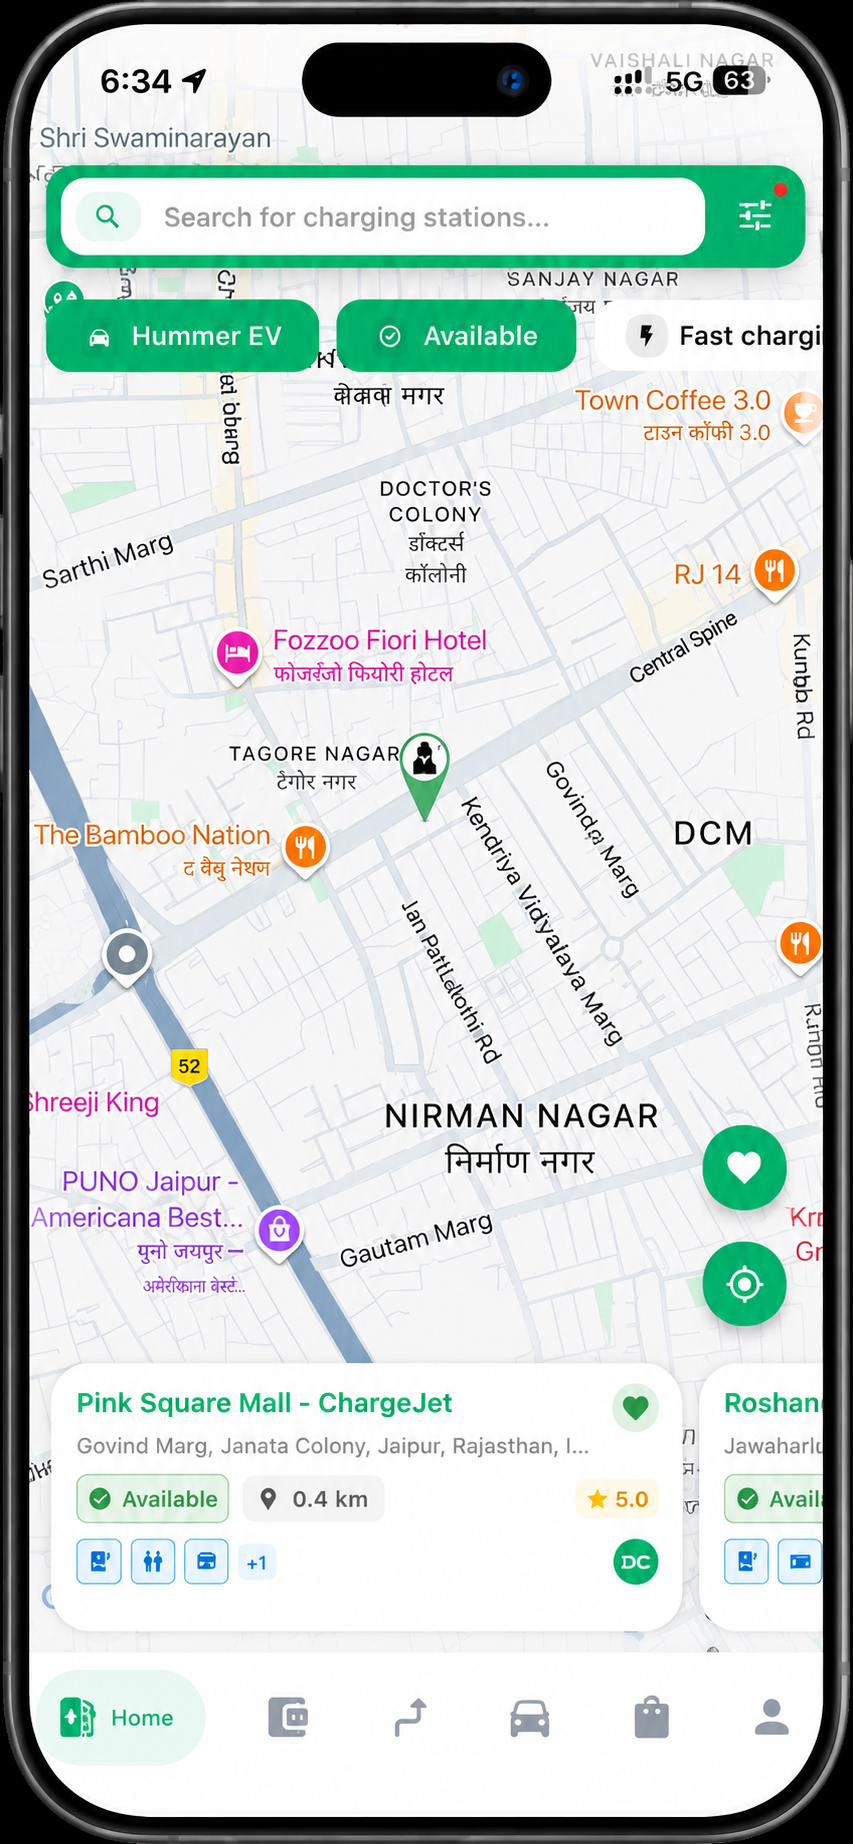
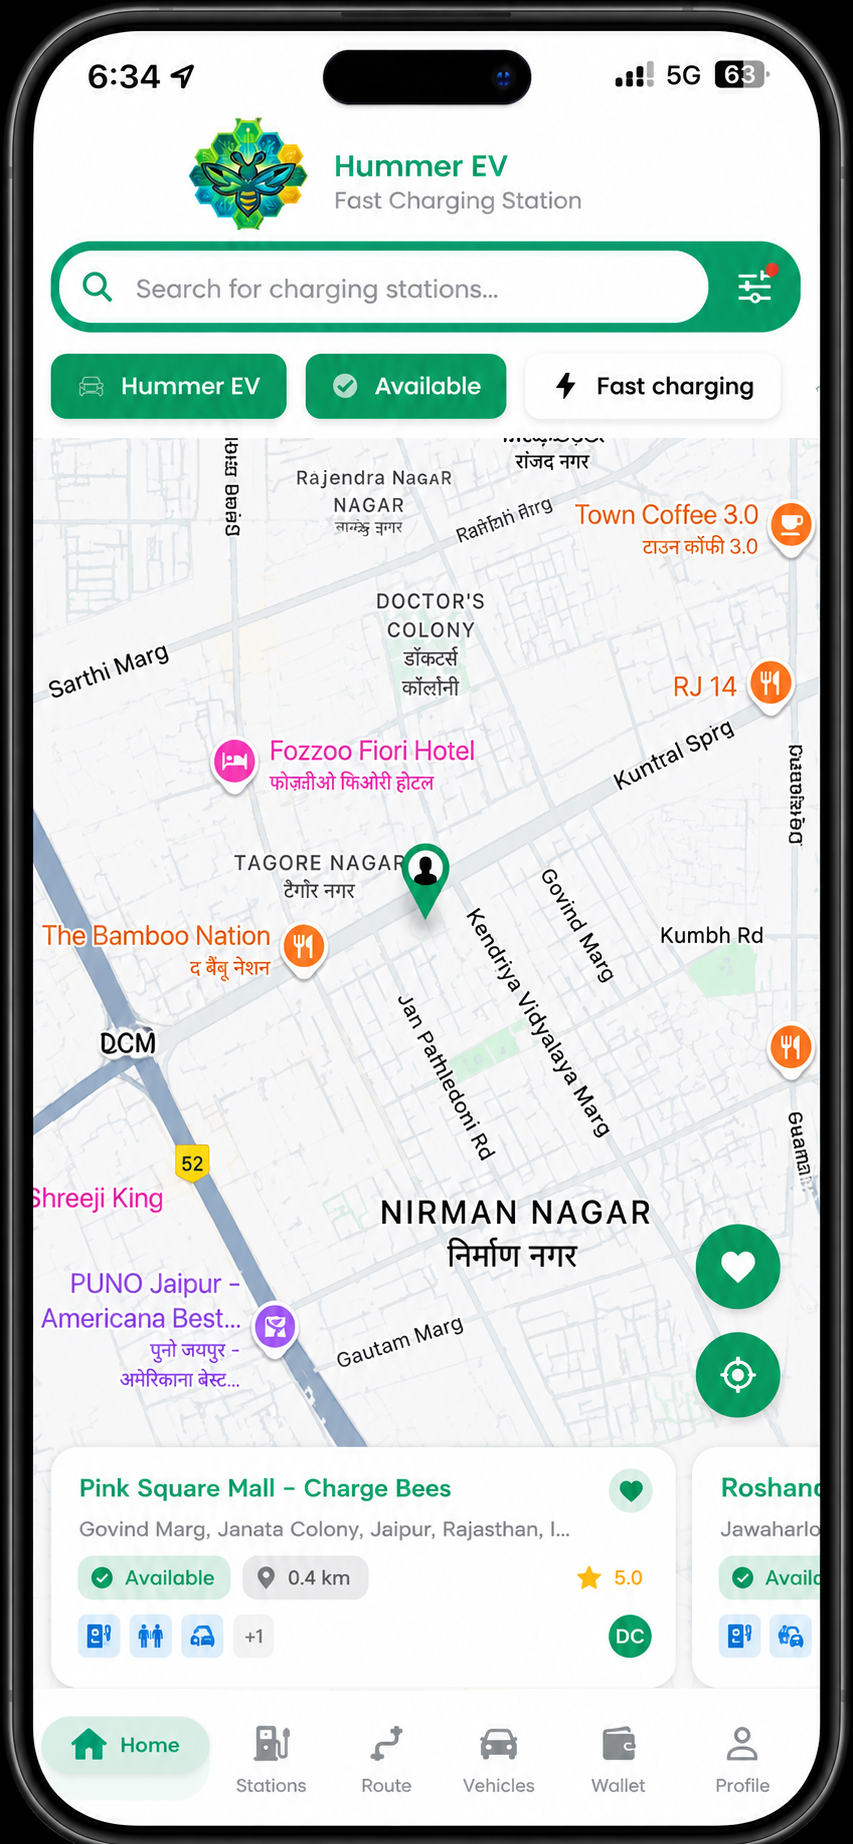
updated

diff --git a/solar_products.html b/solar_products.html
@@ -772,7 +772,7 @@
                 <!-- Card 1 -->
                 <div class="product-card fade-up">
                     <div style="overflow:hidden;height:200px;">
-                        <img class="product-img" src="https://images.unsplash.com/photo-1560472354-b33ff0c44a43?q=80&w=800&auto=format&fit=crop" alt="Residential Solar">
+                        <img class="product-img" src="images\resi.jpg" alt="Residential Solar">
                     </div>
                     <div class="product-body">
                         <div class="product-icon">
@@ -786,7 +786,7 @@
                 <!-- Card 2 -->
                 <div class="product-card fade-up" style="transition-delay:0.1s">
                     <div style="overflow:hidden;height:200px;">
-                        <img class="product-img" src="https://images.unsplash.com/photo-1497440001374-f26997328c1b?q=80&w=800&auto=format&fit=crop" alt="Commercial Solar">
+                        <img class="product-img" src="images\comm.jpg" alt="Commercial Solar">
                     </div>
                     <div class="product-body">
                         <div class="product-icon">
@@ -800,7 +800,7 @@
                 <!-- Card 3 -->
                 <div class="product-card fade-up" style="transition-delay:0.2s">
                     <div style="overflow:hidden;height:200px;">
-                        <img class="product-img" src="https://images.unsplash.com/photo-1473341304170-971dccb5ac1e?q=80&w=800&auto=format&fit=crop" alt="Industrial Solar">
+                        <img class="product-img" src="images\indus.jpg" alt="Industrial Solar">
                     </div>
                     <div class="product-body">
                         <div class="product-icon">
@@ -814,7 +814,7 @@
                 <!-- Card 4 — spans 3 cols on desktop -->
                 <div class="product-card fade-up" style="transition-delay:0.3s; grid-column: span 1;">
                     <div style="overflow:hidden;height:200px;">
-                        <img class="product-img" src="https://images.unsplash.com/photo-1508514177221-188b1cf16e9d?q=80&w=800&auto=format&fit=crop" alt="Ground Mounted">
+                        <img class="product-img" src="images\gro.jpg" alt="Ground Mounted">
                     </div>
                     <div class="product-body">
                         <div class="product-icon">
@@ -937,7 +937,7 @@
             <!-- Residential -->
             <div class="solar-type-card" id="residential">
                 <div class="type-img-wrap fade-left">
-                    <img src="https://images.unsplash.com/photo-1564522789523-3ce36a41e7bc?q=80&w=800&auto=format&fit=crop" alt="Residential Solar">
+                    <img src="images\residential.jpg" alt="Residential Solar">
                 </div>
                 <div class="fade-right">
                     <div class="type-number">01</div>
@@ -959,7 +959,7 @@
             <!-- Commercial -->
             <div class="solar-type-card reverse" id="commercial">
                 <div class="type-img-wrap fade-right">
-                    <img src="https://images.unsplash.com/photo-1548337138-e87d889cc369?q=80&w=800&auto=format&fit=crop" alt="Commercial Solar">
+                    <img src="images\commercial.jpg" alt="Commercial Solar">
                 </div>
                 <div class="fade-left">
                     <div class="type-number">02</div>
@@ -981,7 +981,7 @@
             <!-- Industrial -->
             <div class="solar-type-card" id="industrial">
                 <div class="type-img-wrap fade-left">
-                    <img src="https://images.unsplash.com/photo-1466611653911-95081537e5b7?q=80&w=800&auto=format&fit=crop" alt="Industrial Solar">
+                    <img src="images\industrial.jpg" alt="Industrial Solar">
                 </div>
                 <div class="fade-right">
                     <div class="type-number">03</div>
@@ -1003,7 +1003,7 @@
             <!-- Ground Mounted -->
             <div class="solar-type-card reverse" id="ground">
                 <div class="type-img-wrap fade-right">
-                    <img src="https://images.unsplash.com/photo-1558618666-fcd25c85cd64?q=80&w=800&auto=format&fit=crop" alt="Ground Mounted Solar">
+                    <img src="images\ground.jpg" alt="Ground Mounted Solar">
                 </div>
                 <div class="fade-left">
                     <div class="type-number">04</div>
